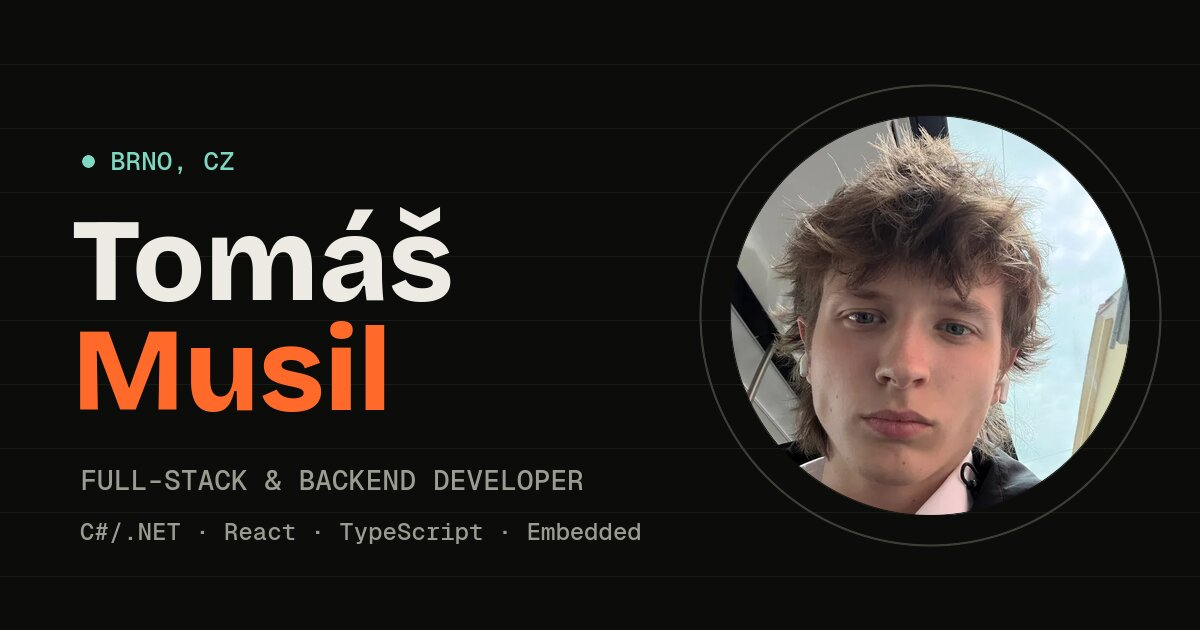
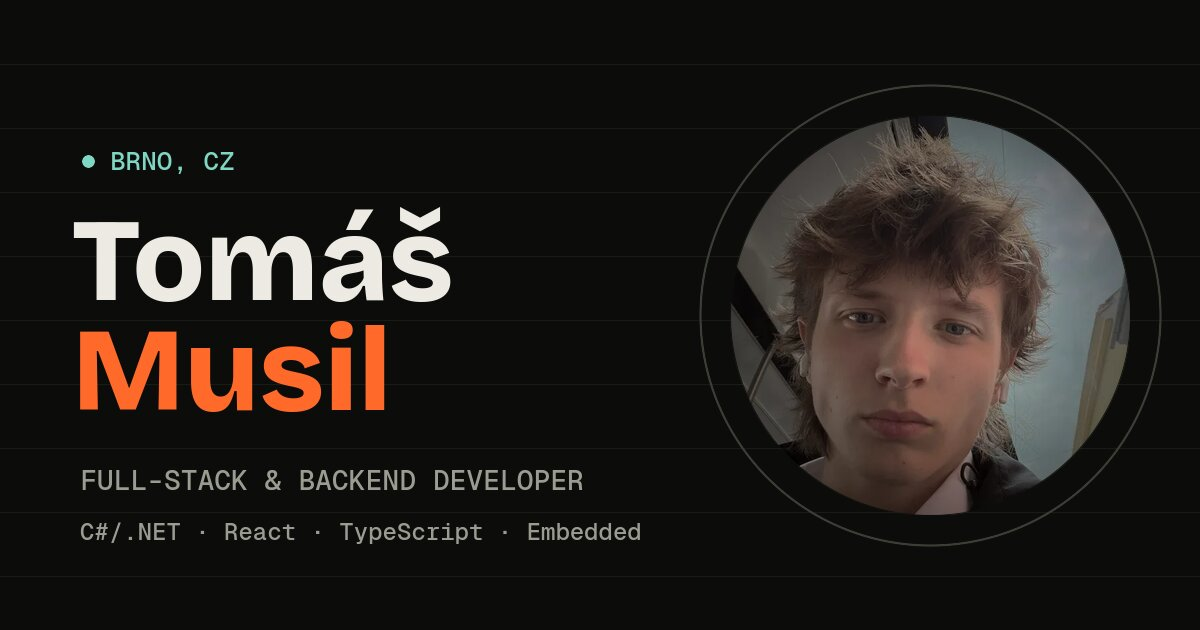
Design pass: tighter spacing, full gallery grid, mobile fixes
- Section padding and heading gap reduced (~280px → ~200px between sections)
- Gallery: drop near-duplicate group-2 and reorder so the dense grid packs
  into 5 full rows (7 on mobile, where the last tall photo renders short)
- Buttons and icon links get the page background so the hero wave stops
  running through them; GitHub/LinkedIn icons wrap as a pair
- Stats: four values derived from content (companies, competitions,
  projects, technologies)
- Work: company names in ink, accent on hover
- Skills: all five groups fit one row
- Mobile: smaller portrait, larger name, photo stack no longer overflows
- Portrait (and og.jpg) colour-graded warmer with muted highlights

Changed region(s): [[0.5858, 0.181, 0.9558, 0.8143]]

diff --git a/src/index.css b/src/index.css
@@ -222,7 +222,7 @@ main:focus {
   padding: 0 20px;
   border-radius: 999px;
   border: 1px solid var(--line-strong);
-  background: transparent;
+  background: var(--bg);
   color: var(--ink);
   font: 500 0.95rem var(--body);
   text-decoration: none;
@@ -247,6 +247,7 @@ main:focus {
 
 .icon-link {
   display: grid;
+  background: var(--bg);
   place-items: center;
   width: 46px;
   height: 46px;
@@ -552,6 +553,11 @@ main:focus {
   font-size: 1.08rem;
 }
 
+.hero__social {
+  display: flex;
+  gap: 12px;
+}
+
 .hero__cta {
   display: flex;
   flex-wrap: wrap;
@@ -663,7 +669,7 @@ main:focus {
 
 .stats {
   display: grid;
-  grid-template-columns: repeat(2, 1fr);
+  grid-template-columns: repeat(4, 1fr);
   gap: 1px;
   list-style: none;
   margin: 0 auto;
@@ -683,6 +689,10 @@ main:focus {
   border-left: 1px solid var(--line);
 }
 
+.stats li:first-child {
+  padding-left: 0;
+}
+
 .stats__value {
   font: 800 clamp(2.2rem, 5vw, 3.6rem) / 1 var(--display);
   letter-spacing: -0.03em;
@@ -697,7 +707,7 @@ main:focus {
 /* ---------- sections ---------- */
 
 .section {
-  padding-block: clamp(80px, 12vw, 140px);
+  padding-block: clamp(64px, 8vw, 104px);
 }
 
 .section-head {
@@ -705,7 +715,7 @@ main:focus {
   grid-template-columns: auto auto 1fr auto;
   align-items: baseline;
   gap: 18px;
-  margin-bottom: clamp(40px, 6vw, 72px);
+  margin-bottom: clamp(32px, 4vw, 56px);
 }
 
 .section-head__index {
@@ -801,6 +811,12 @@ main:focus {
 }
 
 .company {
+  color: var(--ink);
+  font-weight: 500;
+  transition: color 0.2s;
+}
+
+.timeline__item:hover .company {
   color: var(--accent);
 }
 
@@ -1413,7 +1429,7 @@ main:focus {
 
 .skills {
   display: grid;
-  grid-template-columns: repeat(auto-fit, minmax(200px, 1fr));
+  grid-template-columns: repeat(auto-fit, minmax(170px, 1fr));
   gap: 32px;
   margin-bottom: 72px;
 }
@@ -1555,7 +1571,7 @@ main:focus {
   }
   .hero__portrait {
     order: -1;
-    width: min(70vw, 300px);
+    width: min(52vw, 220px);
   }
   .project:nth-child(even) .project__visual {
     order: 0;
@@ -1574,11 +1590,27 @@ main:focus {
   }
 
   .stats {
-    grid-template-columns: 1fr;
+    grid-template-columns: 1fr 1fr;
   }
-  .stats li + li {
+  .stats li {
+    padding: 22px 16px;
+  }
+  .stats li:nth-child(odd) {
+    padding-left: 0;
     border-left: 0;
+  }
+  .stats li:nth-child(n + 3) {
     border-top: 0;
+  }
+  .hero__name {
+    font-size: clamp(4rem, 17vw, 6rem);
+  }
+  .stack {
+    height: 300px;
+  }
+  .stack__photo {
+    width: 56%;
+    height: 70%;
   }
   .section-head {
     grid-template-columns: auto 1fr;
@@ -1590,6 +1622,9 @@ main:focus {
   .timeline__item {
     grid-template-columns: 1fr;
     gap: 8px;
+  }
+  .gallery li.is-tall--wide-only {
+    grid-row: auto;
   }
   .gallery {
     grid-template-columns: 1fr 1fr;

diff --git a/src/content.ts b/src/content.ts
@@ -317,6 +317,8 @@ export const education = {
 
 export type Photo = { src: string; alt: T; tall?: boolean }
 
+// Order matters: the tall photos sit at positions 3, 6 and 10 so the 3-column dense grid packs into
+// exactly 5 full rows (and 7 rows on mobile, where the last tall one renders short).
 export const gallery: Photo[] = [
   { src: 'att-team', alt: { cs: 'AT&T Hackathon Junior 2025 — sledujeme prezentace', en: 'AT&T Hackathon Junior 2025 — watching the pitches' } },
   { src: 'pitch-2', alt: { cs: 'Prezentace řešení před porotou', en: 'Pitching our solution to the jury' } },
@@ -327,10 +329,9 @@ export const gallery: Photo[] = [
   { src: 'audience', alt: { cs: 'Publikum při vyhlášení', en: 'The audience during the announcement' } },
   { src: 'pitch-1', alt: { cs: 'Pitch s mikrofonem', en: 'Pitching with the mic' } },
   { src: 'organizer', alt: { cs: 'Úvodní slovo organizátora', en: 'Opening words from the organiser' } },
-  { src: 'lecture-1', alt: { cs: 'Zahájení v aule VUT', en: 'Opening in the VUT auditorium' } },
   { src: 'crowd', alt: { cs: 'Účastníci a mentoři', en: 'Participants and mentors' }, tall: true },
+  { src: 'lecture-1', alt: { cs: 'Zahájení v aule VUT', en: 'Opening in the VUT auditorium' } },
   { src: 'hall-1', alt: { cs: 'Hosté finále', en: 'Guests at the final' } },
-  { src: 'group-2', alt: { cs: 'Společná fotka před Onkologickým ústavem', en: 'Group photo in front of the Oncology Institute' } },
 ]
 
 export const ui = {
@@ -357,6 +358,8 @@ export const ui = {
   stats: {
     years: { cs: 'firmy, pro které jsem vyvíjel', en: 'companies I have shipped code for' },
     hacks: { cs: 'soutěže a hackathony', en: 'competitions & hackathons' },
+    projects: { cs: 'projekty, na kterých jsem pracoval', en: 'projects I have worked on' },
+    tech: { cs: 'technologií, se kterými pracuji', en: 'technologies I work with' },
   },
   team: { cs: 'Tým', en: 'Team' },
   education: { cs: 'Vzdělání', en: 'Education' },

diff --git a/src/components/Hero.tsx b/src/components/Hero.tsx
@@ -131,12 +131,14 @@ export function Hero() {
               >
                 {t(ui.downloadCv)} <span aria-hidden>↓</span>
               </m.a>
-              <a href={profile.github} target="_blank" rel="noreferrer" className="icon-link" aria-label={`GitHub (${t(ui.newTab)})`}>
-                <GitHubIcon />
-              </a>
-              <a href={profile.linkedin} target="_blank" rel="noreferrer" className="icon-link" aria-label={`LinkedIn (${t(ui.newTab)})`}>
-                <LinkedInIcon />
-              </a>
+              <span className="hero__social">
+                <a href={profile.github} target="_blank" rel="noreferrer" className="icon-link" aria-label={`GitHub (${t(ui.newTab)})`}>
+                  <GitHubIcon />
+                </a>
+                <a href={profile.linkedin} target="_blank" rel="noreferrer" className="icon-link" aria-label={`LinkedIn (${t(ui.newTab)})`}>
+                  <LinkedInIcon />
+                </a>
+              </span>
             </div>
           </m.div>
         </div>
@@ -158,7 +160,7 @@ export function Hero() {
           <img
             src="/media/portrait.webp"
             srcSet="/media/portrait-sm.webp 360w, /media/portrait.webp 600w"
-            sizes="(max-width: 960px) 220px, 310px"
+            sizes="(max-width: 960px) 163px, 310px"
             alt={t(ui.portraitAlt)}
             width={600}
             height={600}

diff --git a/src/components/Work.tsx b/src/components/Work.tsx
@@ -1,6 +1,6 @@
 import { m, useScroll, useTransform } from 'motion/react'
 import { useRef } from 'react'
-import { awards, jobs, ui } from '../content'
+import { awards, jobs, projects, skills, ui } from '../content'
 import { useLang } from '../lib/lang'
 import { inView, motionTokens, reveal, stagger } from '../lib/motion'
 import { useMotionPref } from '../lib/motion-pref'
@@ -11,6 +11,8 @@ export function Stats() {
   const items = [
     { value: <Counter to={jobs.length} />, label: t(ui.stats.years) },
     { value: <Counter to={awards.length} />, label: t(ui.stats.hacks) },
+    { value: <Counter to={projects.length} />, label: t(ui.stats.projects) },
+    { value: <Counter to={skills.flatMap((g) => g.items).length} />, label: t(ui.stats.tech) },
   ]
   return (
     <m.ul className="stats container" role="list" initial="hidden" whileInView="visible" viewport={inView} variants={stagger()}>

diff --git a/src/components/Gallery.tsx b/src/components/Gallery.tsx
@@ -105,6 +105,7 @@ export function Gallery() {
   const { t } = useLang()
   const [open, setOpen] = useState<number | null>(null)
   const close = useCallback(() => setOpen(null), [])
+  const lastTall = gallery.findLastIndex((p) => p.tall)
   const step = useCallback((d: number) => setOpen((i) => (i === null ? i : (i + d + gallery.length) % gallery.length)), [])
 
   return (
@@ -114,7 +115,7 @@ export function Gallery() {
         {gallery.map((p, i) => (
           <m.li
             key={p.src}
-            className={p.tall ? 'is-tall' : ''}
+            className={p.tall ? (i === lastTall ? 'is-tall is-tall--wide-only' : 'is-tall') : ''}
             initial={{ opacity: 0, y: motionTokens.distance.lg, scale: 0.96 }}
             whileInView={{ opacity: 1, y: 0, scale: 1 }}
             viewport={inView}

diff --git a/index.html b/index.html
@@ -8,7 +8,7 @@
     <link rel="apple-touch-icon" href="/apple-touch-icon.png" />
     <meta name="theme-color" content="#0c0d0b" />
     <!--app-head-->
-    <link rel="preload" as="image" href="/media/portrait.webp" imagesrcset="/media/portrait-sm.webp 360w, /media/portrait.webp 600w" imagesizes="(max-width: 960px) 220px, 310px" fetchpriority="high" />
+    <link rel="preload" as="image" href="/media/portrait.webp" imagesrcset="/media/portrait-sm.webp 360w, /media/portrait.webp 600w" imagesizes="(max-width: 960px) 163px, 310px" fetchpriority="high" />
   </head>
   <body>
     <div id="root"><!--app-html--></div>
